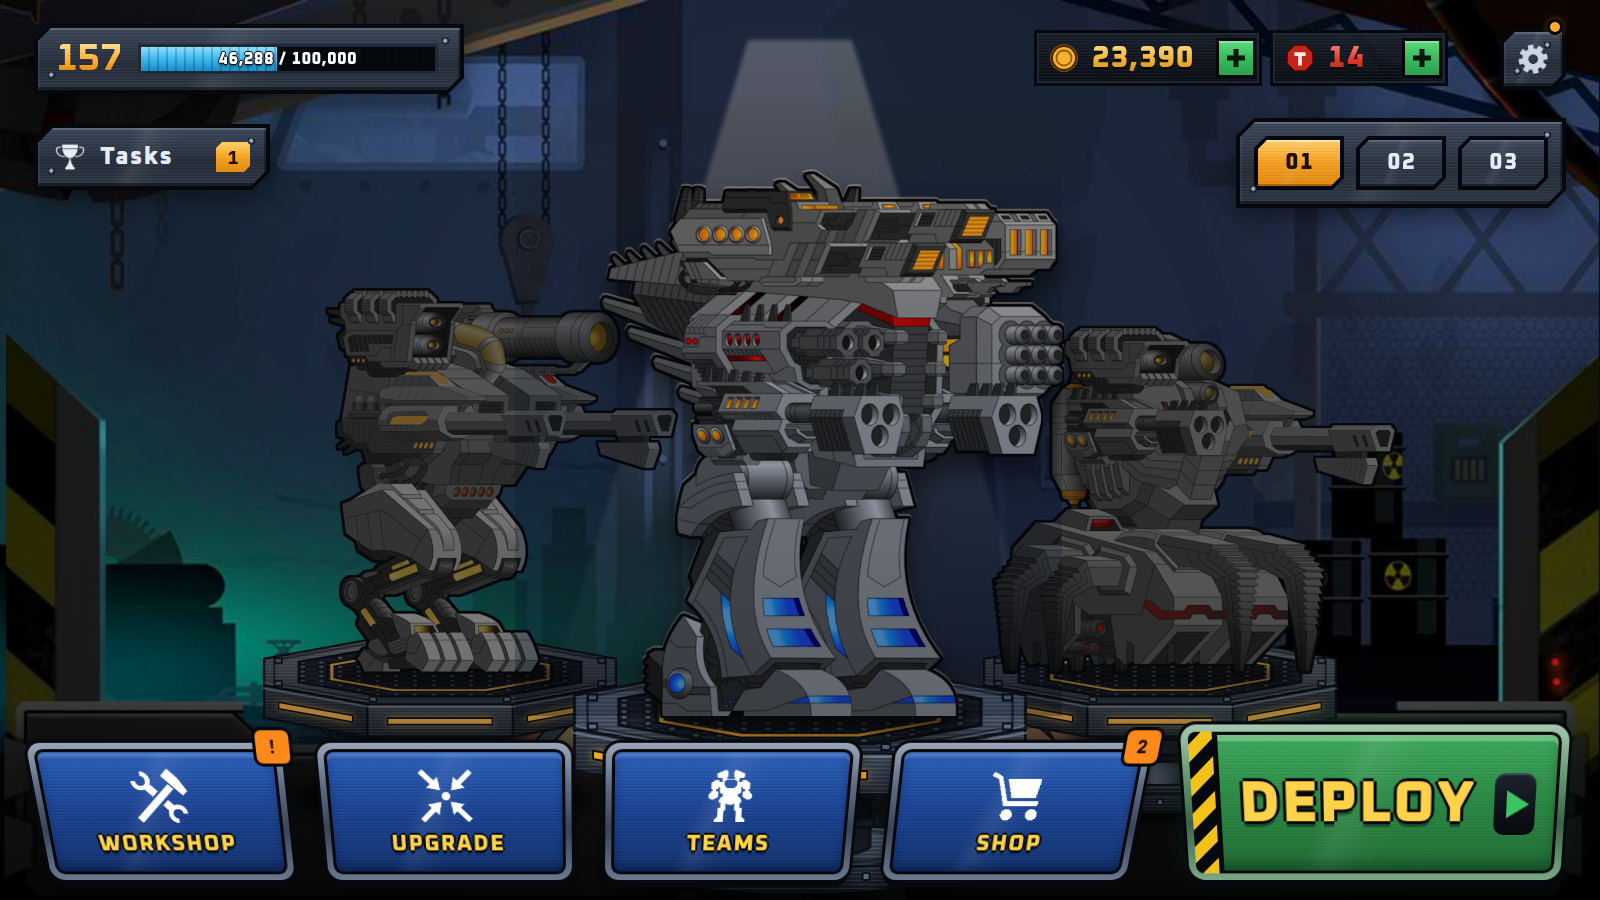
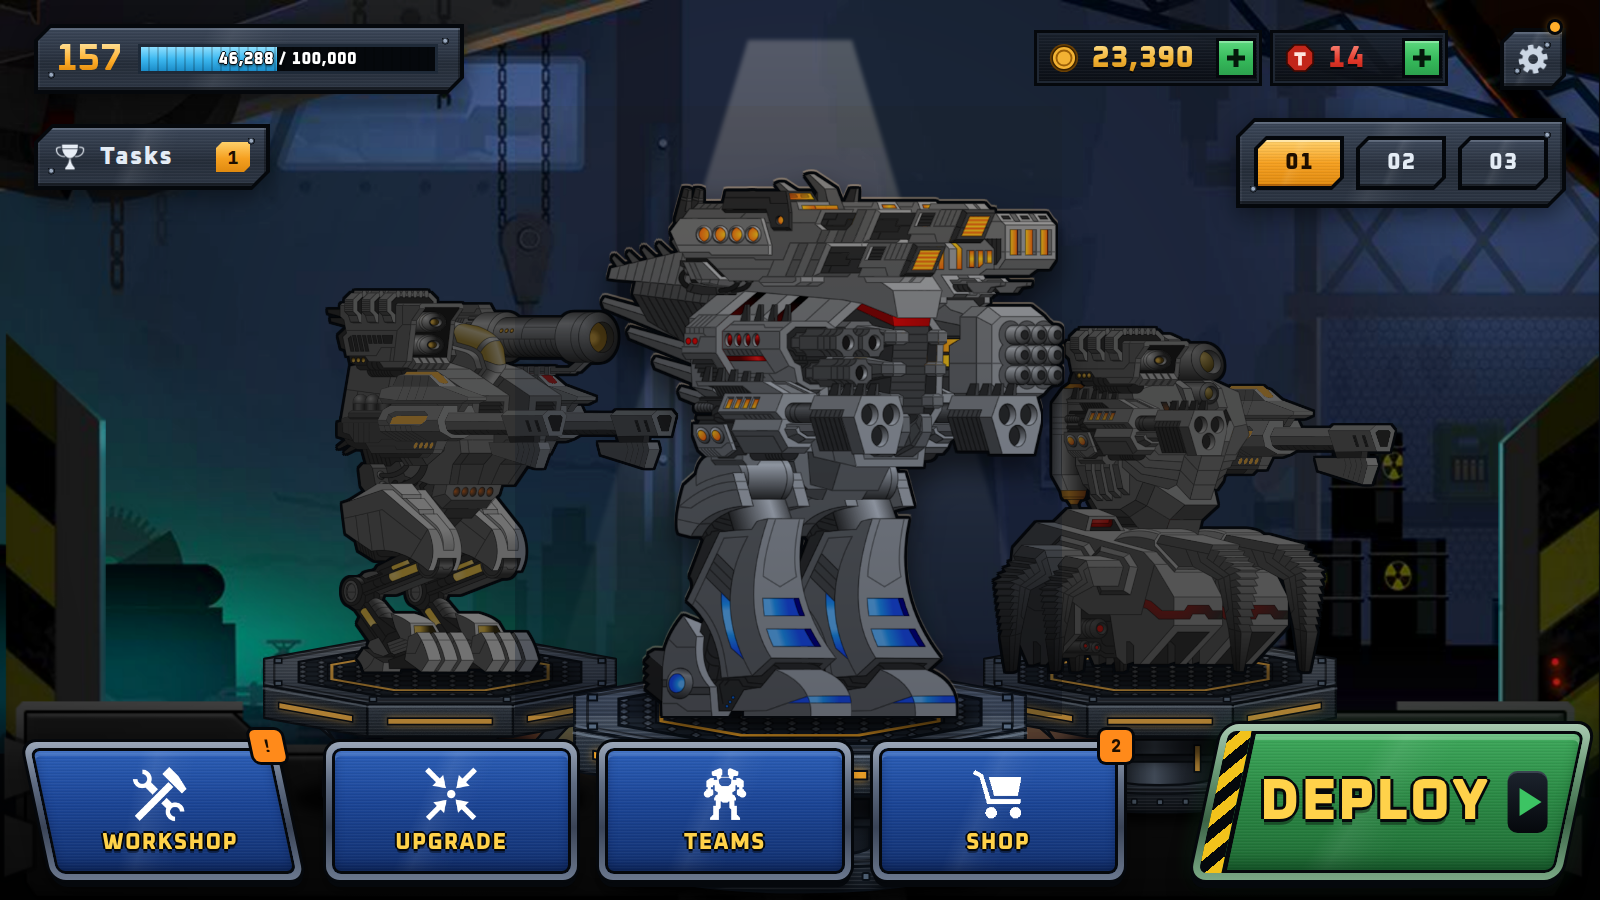
Fan the menu: outer buttons lean out, middle ones straight
Workshop leans left (\), Upgrade/Teams/Shop upright, Deploy leans right (/);
labels and icons stay upright.

Claude-Session: https://claude.ai/code/session_016EMeU7WbdybdkHaQ4QiAx5

Changed region(s): [[0.0, 0.7778, 1.0, 0.9956]]

diff --git a/ui/mocks/H-bay.html b/ui/mocks/H-bay.html
@@ -226,7 +226,7 @@ canvas{position:absolute;left:0;top:0;width:1600px;height:900px}
 
 /* ---- nav: separate console plates like the original (steel rim, rounded, tilted back) ---- */
 .rack{position:absolute;left:52px;top:742px;width:1072px;height:138px;z-index:8;display:flex;gap:34px;padding:0;background:none!important;clip-path:none!important;perspective:700px}
-.slot{flex:1;position:relative;border-radius:14px;padding:6px;transform:rotateX(-14deg);transform-origin:50% 100%;
+.slot{flex:1;position:relative;border-radius:14px;padding:6px;transform:none;
   background:linear-gradient(180deg,#9aa6b8,#5f6c82 30%,#3a4457 62%,#6b788e)!important;
   box-shadow:0 0 0 3px #05080c,0 7px 0 #05080c,0 12px 18px rgba(0,0,0,.55)!important;display:block!important}
 .slot::after{display:none!important}
@@ -237,13 +237,19 @@ canvas{position:absolute;left:0;top:0;width:1600px;height:900px}
 .slot .pip{right:-8px!important;top:-12px!important;min-width:32px!important;height:32px!important;font-size:17px!important;border-radius:6px;box-shadow:0 0 0 3px #05080c!important;z-index:3}
 
 .dwrap{position:absolute;left:1190px;top:724px;width:370px;height:156px;z-index:8;perspective:700px}
-.deploy{position:absolute!important;inset:0!important;left:0!important;top:0!important;width:auto!important;height:auto!important;clip-path:none!important;border-radius:16px;padding:7px!important;transform:rotateX(-14deg);transform-origin:50% 100%;
+.deploy{position:absolute!important;inset:0!important;left:0!important;top:0!important;width:auto!important;height:auto!important;clip-path:none!important;border-radius:16px;padding:7px!important;transform:skewX(-12deg);transform-origin:50% 100%;
   background:linear-gradient(180deg,#a8c9b0,#6a9a76 30%,#3b6446 62%,#7aa885)!important;box-shadow:0 0 0 3px #05080c,0 8px 0 #05080c,0 14px 22px rgba(0,0,0,.55),0 0 26px rgba(60,220,110,.15)}
 .deploy .face{border-radius:10px;clip-path:none!important;padding:0 22px 0 0!important;box-shadow:inset 0 0 0 3px #05080c,inset 0 6px 0 3px rgba(225,255,230,.3),inset 0 -10px 14px rgba(0,40,15,.45)!important}
 .deploy .haz{border-radius:8px 0 0 8px}
 .deploy h3{font-size:58px!important;color:#ffd24a!important;text-shadow:0 3px 0 #05080c,3px 0 0 #05080c,-3px 0 0 #05080c,0 -3px 0 #05080c,0 6px 0 rgba(0,0,0,.35)}
 .deploy .go2{border-radius:10px}
 .deploy .face{background:var(--sheen),var(--brush),linear-gradient(180deg,#3faa5c,#2b8a45 45%,#1f6a34)!important}
+
+.slot:first-child{transform:skewX(12deg)!important;transform-origin:50% 100%}
+.slot:first-child>.fc>*{transform:skewX(-12deg)}
+.deploy .face>*{transform:skewX(12deg)}
+.deploy .haz{transform:none!important}
+.rack{gap:22px!important}
 </style></head>
 <body>
 <div class="stage">
